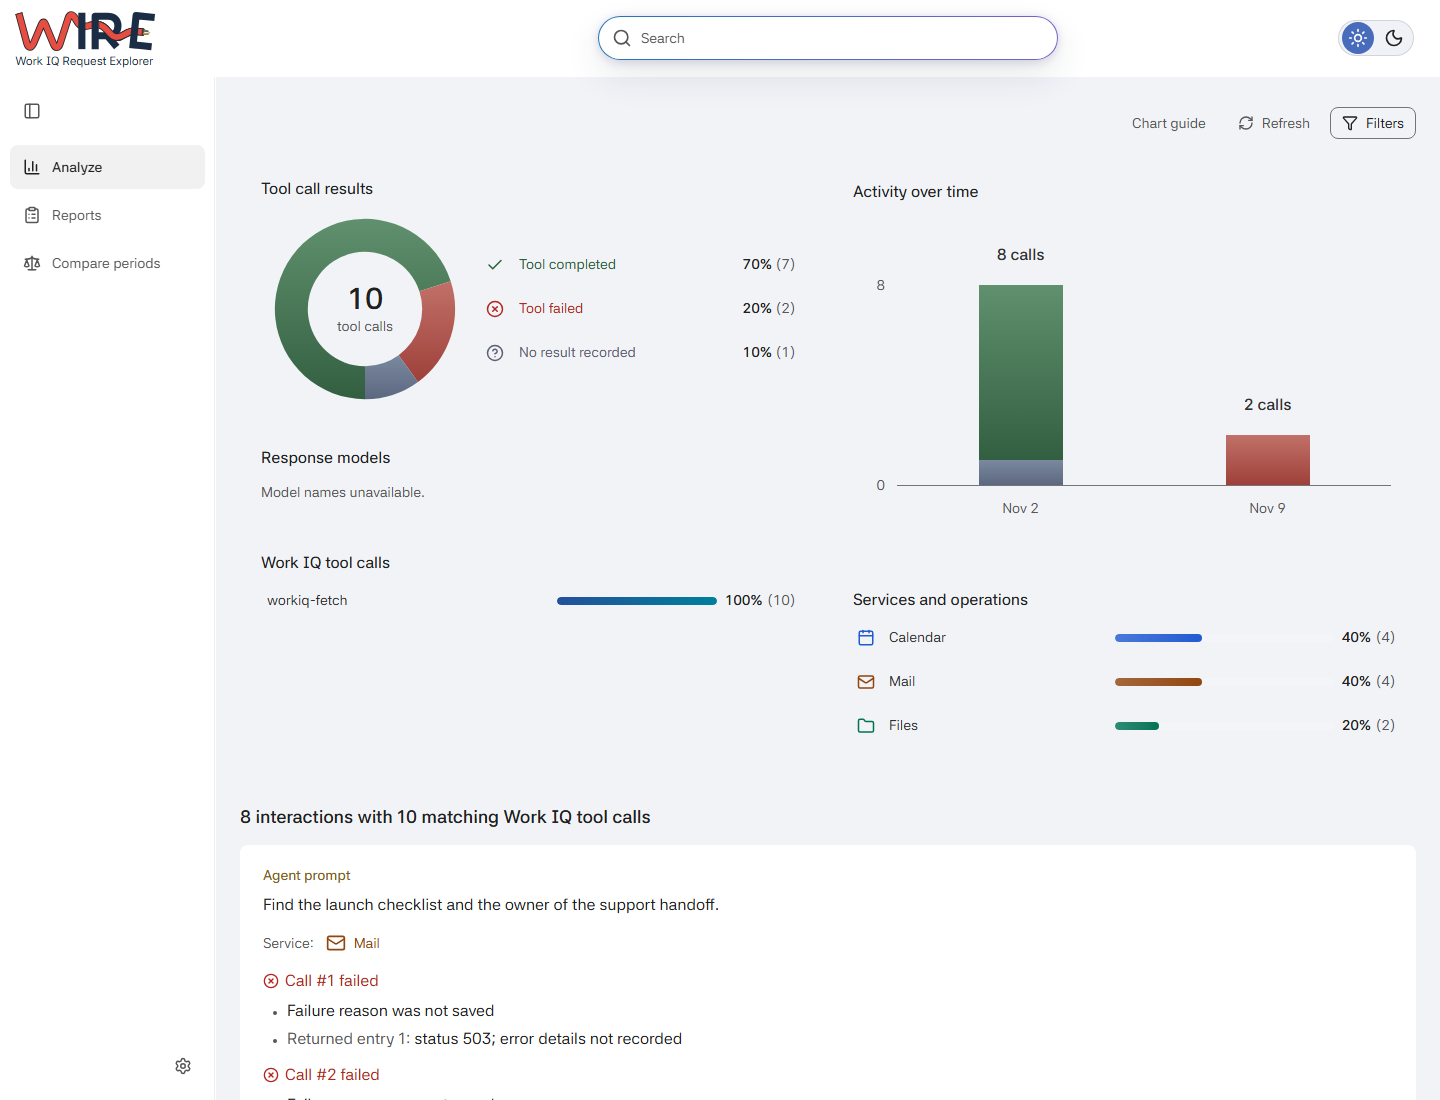
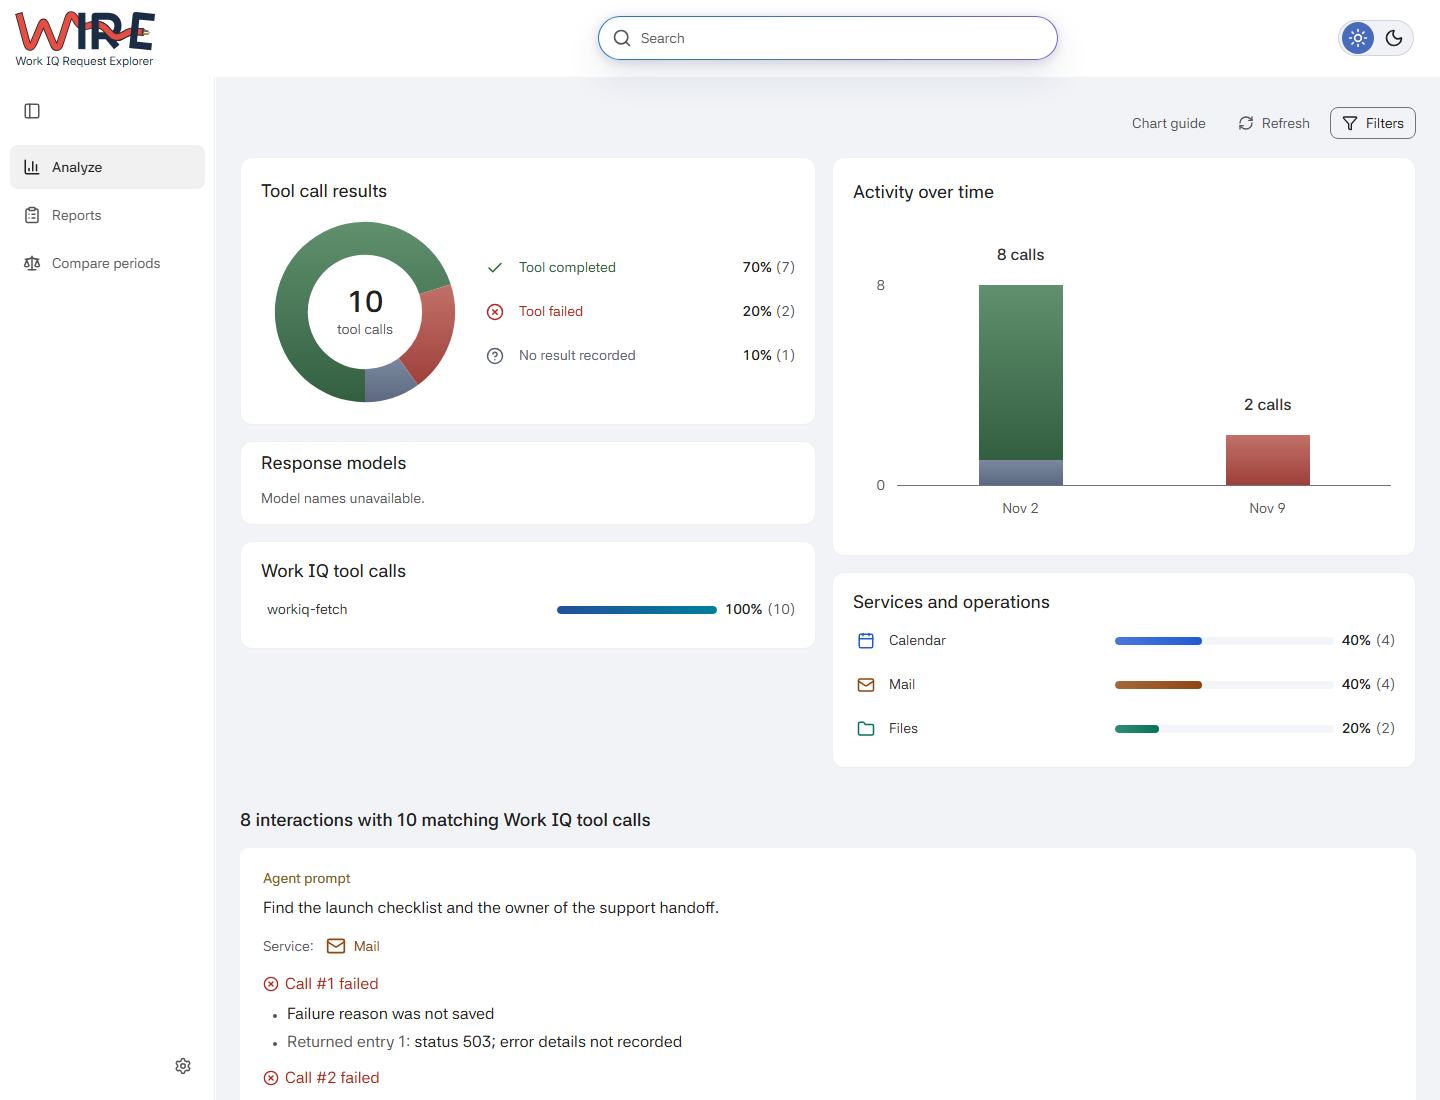
Restore chart hierarchy and smooth navigation
Keep avatar alignment continuous, distinguish Settings states and reflow saved report identities. Show pending destinations before their reads and build canonical reader context without discarded chart projections.

diff --git a/docs/design.md b/docs/design.md
@@ -41,6 +41,14 @@ Private Search state never becomes a copied public URL or a broader fallback.
 Peer destinations have no fabricated Analyze / Reports breadcrumb. Subordinate
 reading keeps one return to its actual origin. Entering Compare opens it rather
 than toggling it off; Analyze and Compare retain independent accepted scopes.
+When a destination needs a new stored read, select it and show its loading
+state immediately. Do not present the old charts as its accepted population.
+Failed reads restore the accepted origin; later navigation wins over held reads.
+
+The account avatar keeps the same internal horizontal alignment throughout
+sidebar motion. Its image, name and chevron stay mounted; fade and clip the
+copy with the moving footer rather than switching its grid to a centered
+alignment before the rail has moved. Reversals start at the painted position.
 
 ## Reading hierarchy
 
@@ -86,8 +94,11 @@ preserve the established
 44px targets, focus indications and wrapping labels.
 
 Use one restrained screen hierarchy throughout the application. Routine Analyze
-charts sit on the workspace without filled card frames; individual interactions
-remain distinct, and contextual readers and open menus carry the stronger surface.
+charts have separate quiet surfaces with each heading inside its group.
+Use a visible tone boundary and restrained edge in both themes; keep chart
+heights content-sized and avoid nested card frames around individual rows.
+Individual interactions remain distinct, and contextual readers and open menus
+carry the stronger surface.
 Resting panels have no drop shadow. Navigation uses neutral selection without
 an outlined card or redundant Workspace caption. Settings follows the shared
 page and section type scale.
@@ -100,6 +111,11 @@ and visible Go to page action. PDF paging keeps its existing commit behavior.
 Checkboxes and switches use the setting-state color, not outcome green.
 Keep hover, pressed, selected and keyboard focus distinct; a smaller painted
 control is not permission to remove its focus ring or hit area.
+Settings categories use a compact neutral selection mark and transient text
+hover/press feedback, not competing full-row gray blocks.
+Saved-report titles lead with the report/document icon; privacy and file actions
+keep their separate meaning. Reflow the period under the title based on the
+list's available width and text size before secondary columns squeeze the name.
 
 Outcome words/icons accompany color. Completed calls use the current success
 role; failures use red, partial states retain their separate warning role and
